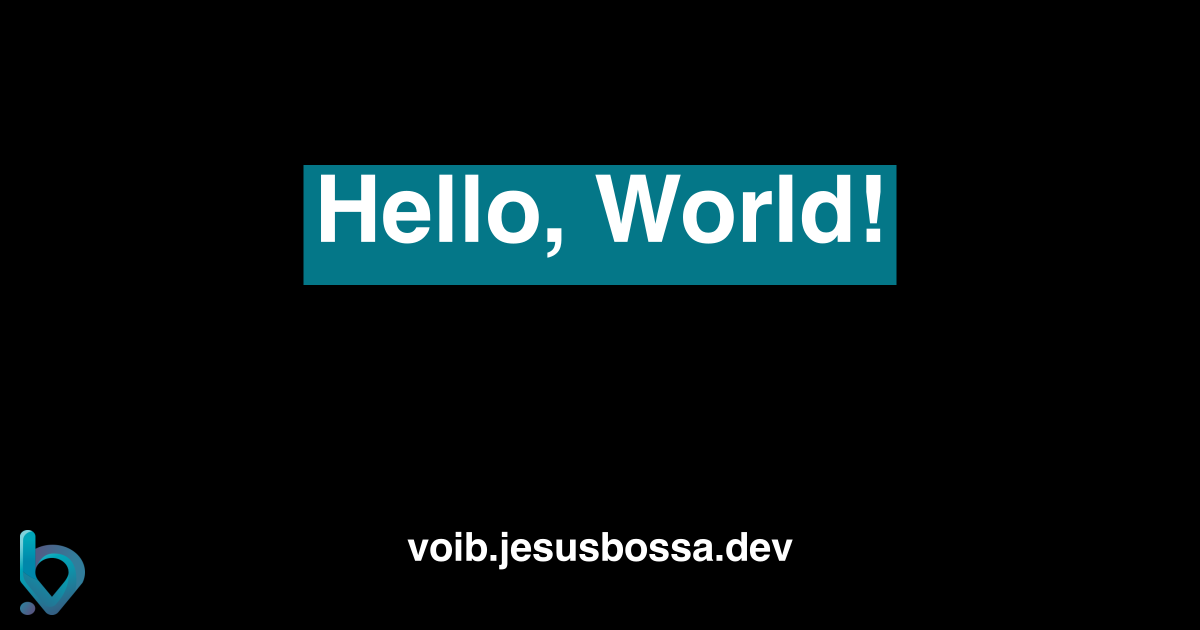
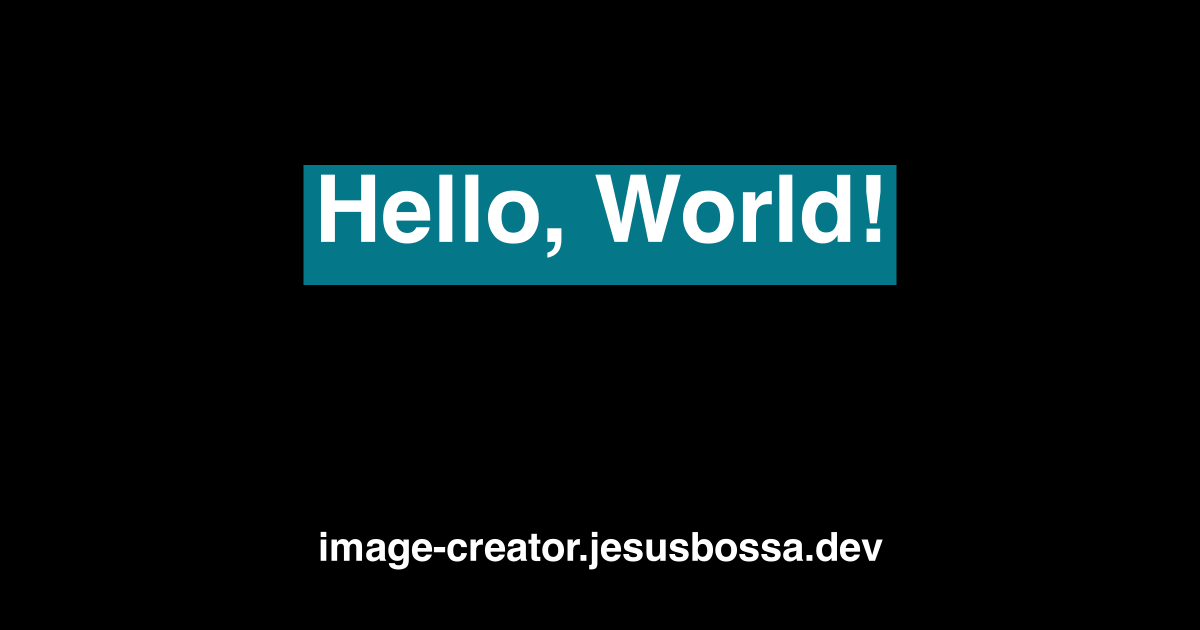
feat: type creation function

Changed region(s): [[0.2467, 0.8444, 0.74, 0.9048], [0.0, 0.8444, 0.0925, 0.9952]]

diff --git a/src/script/creation.ts b/src/script/creation.ts
@@ -1,0 +1,76 @@
+import fs from 'fs';
+import { createCanvas, loadImage } from 'canvas';
+
+interface CreateImageProps {
+  width?: number;
+  height?: number;
+  backgroundColor?: string | CanvasGradient | CanvasPattern;
+  titleFontStyle?: string;
+  textAlign?: CanvasTextAlign;
+  textTitle?: string;
+  titleFillStyle?: string | CanvasGradient | CanvasPattern;
+  titleColor?: string | CanvasGradient | CanvasPattern;
+  subTextColor?: string | CanvasGradient | CanvasPattern;
+  subTextFontStyle?: string;
+  subText?: string;
+  extraLogo?: string;
+  filePath: string;
+}
+
+function CreateImage({
+  width = 1200,
+  height = 630,
+  backgroundColor = '#000',
+  titleFontStyle = 'bold 70pt Open Sans',
+  textAlign = 'center',
+  textTitle = 'Hello, World!',
+  titleFillStyle = '#047788',
+  titleColor = '#fff',
+  subTextColor = '#fff',
+  subTextFontStyle = 'bold 30pt Open sans',
+  subText = 'image-creator.jesusbossa.dev',
+  extraLogo,
+  filePath,
+}: CreateImageProps): Promise<boolean> {
+  return new Promise((resolve) => {
+    try {
+      const canvas = createCanvas(width, height);
+      const context = canvas.getContext('2d');
+
+      context.fillStyle = backgroundColor;
+      context.fillRect(0, 0, width, height);
+
+      context.font = titleFontStyle;
+      context.textAlign = textAlign;
+      context.textBaseline = 'top';
+      context.fillStyle = titleFillStyle;
+
+      const textWidth = context.measureText(textTitle).width;
+      context.fillRect(600 - textWidth / 2 - 10, 170 - 5, textWidth + 20, 120);
+      context.fillStyle = titleColor;
+      context.fillText(textTitle, 600, 170);
+
+      context.fillStyle = subTextColor;
+      context.font = subTextFontStyle;
+      context.fillText(subText, 600, 530);
+
+      if (extraLogo) {
+        loadImage(extraLogo).then((image) => {
+          context.drawImage(image, 20, 530, 65, 85);
+          const buffer = canvas.toBuffer('image/png');
+          fs.writeFileSync(filePath, buffer);
+          resolve(true);
+        });
+      } else {
+        const buffer = canvas.toBuffer('image/png');
+        fs.writeFileSync(filePath, buffer);
+        resolve(true);
+      }
+    } catch (error) {
+      console.error(error);
+      resolve(false);
+    }
+  });
+}
+
+export default CreateImage;

diff --git a/src/index.ts b/src/index.ts
@@ -1,33 +1,5 @@
-import fs from 'fs';
-import { createCanvas, loadImage } from 'canvas';
+import CreateImage from './script/creation';
 
-const width = 1200;
-const height = 630;
+// './src/assets/B.svg'
 
-const canvas = createCanvas(width, height);
-const context = canvas.getContext('2d');
-
-context.fillStyle = '#000';
-context.fillRect(0, 0, width, height);
-
-context.font = 'bold 70pt Open Sans';
-context.textAlign = 'center';
-context.textBaseline = 'top';
-context.fillStyle = '#047788';
-
-const text = 'Hello, World!';
-
-const textWidth = context.measureText(text).width;
-context.fillRect(600 - textWidth / 2 - 10, 170 - 5, textWidth + 20, 120);
-context.fillStyle = '#fff';
-context.fillText(text, 600, 170);
-
-context.fillStyle = '#fff';
-context.font = 'bold 30pt Open sans';
-context.fillText('voib.jesusbossa.dev', 600, 530);
-
-loadImage('./src/assets/B.svg').then((image) => {
-  context.drawImage(image, 20, 530, 65, 85);
-  const buffer = canvas.toBuffer('image/png');
-  fs.writeFileSync('./test.png', buffer);
-});
+CreateImage({ filePath: './test.png' }).then((created) => console.log({ created }));
